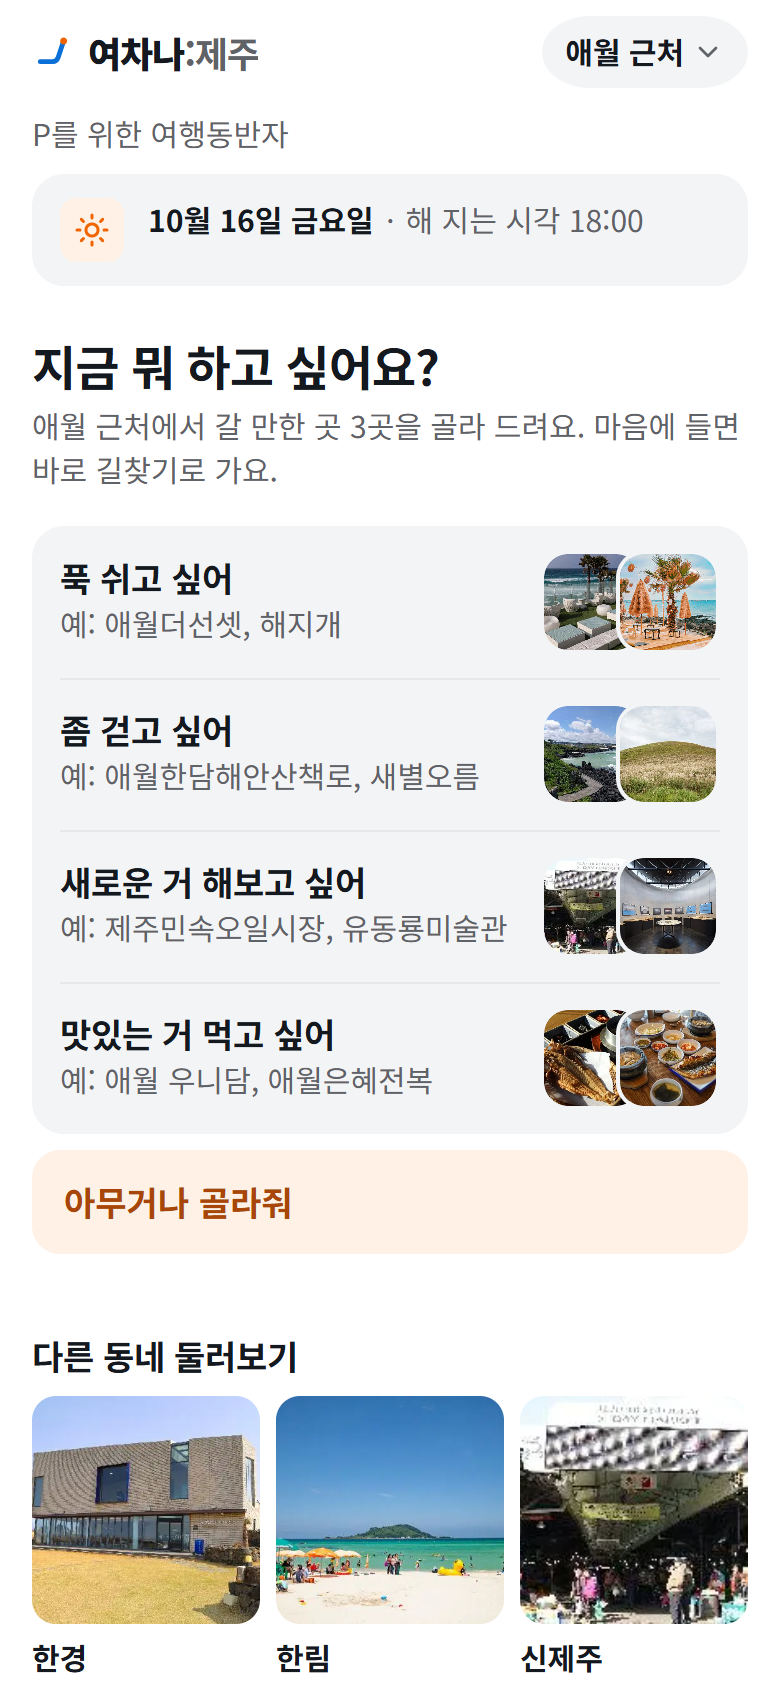
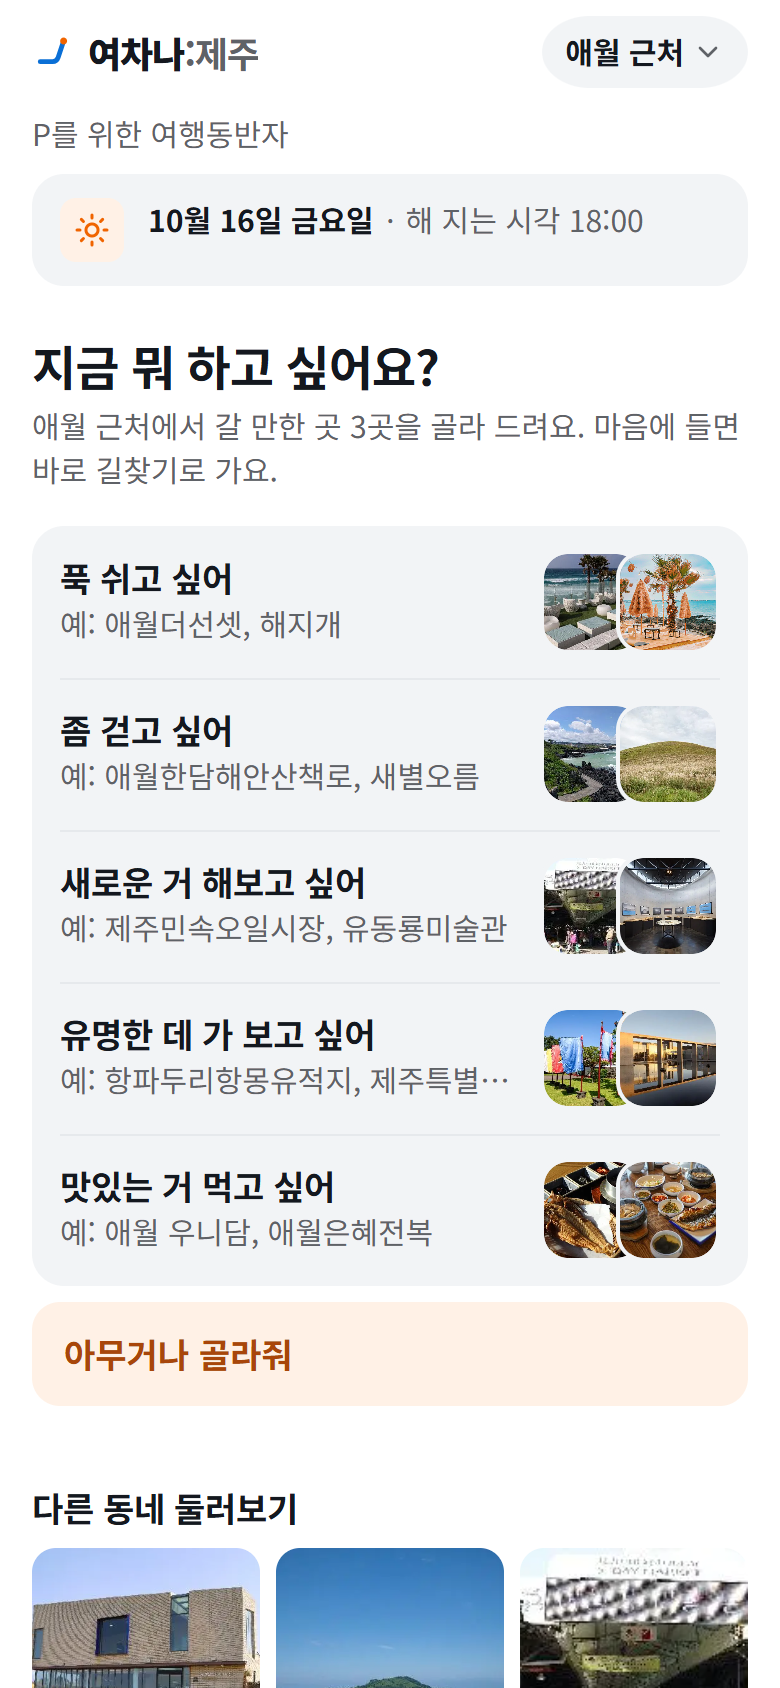
docs(seo): 블로그 1편 초안·사진을 여섯째 기분이 들어간 지금 화면으로

Changed region(s): [[0.0308, 0.5853, 0.9846, 1.0], [0.0615, 0.5853, 0.6154, 0.6469], [0.0615, 0.6777, 0.5538, 0.7393]]

diff --git a/docs/seo/naver-post-01-agentjrny.md b/docs/seo/naver-post-01-agentjrny.md
@@ -14,12 +14,12 @@
 
 지도 앱에 「애월 카페」를 치면 수백 곳이 나와요. 후기를 몇 개 읽다가 30분이 지나가요. 이 고민을 1분 안에 끝내고 싶어서 앱을 만들었어요.
 
-[사진 1: 첫 화면 — 기분 네 가지 버튼이 보이는 화면]
+[사진 1: 첫 화면 — 기분 버튼이 보이는 화면]
 
 ### 쓰는 순서
 
 1. 브라우저에서 yeochana.com을 열어요. 설치도 가입도 없어요.
-2. 「푹 쉬고 싶어」「좀 걷고 싶어」「새로운 거 해보고 싶어」「맛있는 거 먹고 싶어」 중에서 지금 기분 하나를 눌러요.
+2. 「푹 쉬고 싶어」「좀 걷고 싶어」「새로운 거 해보고 싶어」「유명한 데 가 보고 싶어」「맛있는 거 먹고 싶어」 중에서 지금 기분 하나를 눌러요. 고르기 어려우면 「아무거나 골라줘」도 있어요.
 3. 지금 있는 곳, 숙소, 고른 동네 근처에서 갈 만한 곳 3곳이 나와요. 곳마다 왜 좋은지 한 줄이 붙어 있어요.
 4. 마음에 들면 「길찾기」를 눌러요. 네이버지도로 넘어가요.
 
